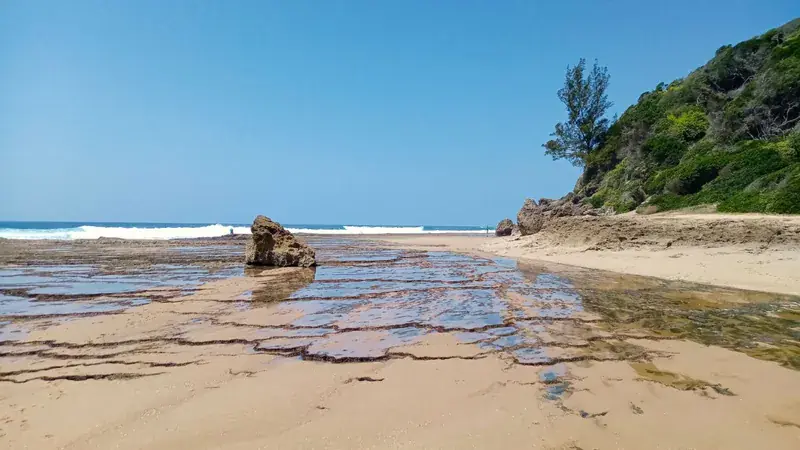
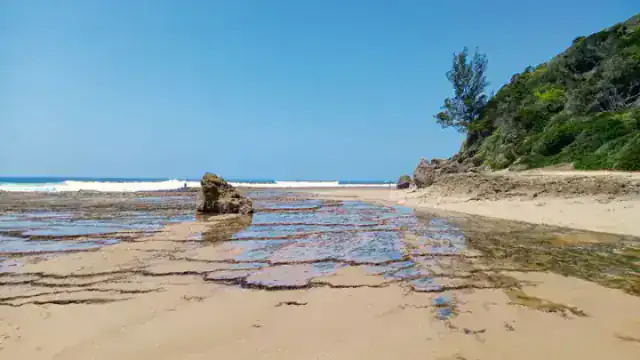
Optimize hero image delivery for faster website loading
Recompress hero images to improve mobile LCP, reducing file size by approximately 66 KiB.

Replit-Commit-Author: Agent
Replit-Commit-Session-Id: b0805308-9095-4d67-af41-b3e6db200dca
Replit-Commit-Checkpoint-Type: full_checkpoint
Replit-Commit-Event-Id: 996cf6a8-3be9-4c2a-9f7e-c781014a1cb6
Replit-Commit-Screenshot-Url: https://storage.googleapis.com/screenshot-production-us-central1/8467bf21-63db-4d5a-9e41-c084beb5640b/b0805308-9095-4d67-af41-b3e6db200dca/7PUaet3

diff --git a/replit.md b/replit.md
@@ -45,10 +45,11 @@ DEVOCEAN Lodge is an eco-friendly beach accommodation website for a lodge in Pon
     - No CSS @import (avoids cascading requests)
   - **Gallery images**: Optimized to 400px (desktop 4-column grid)
   - **Body background**: slate-50 in inline critical CSS prevents white flash
-  - **Image compression**: Hero images re-compressed with quality 75 (mobile) / 80 (desktop)
-    - Mobile hero: 15.6 KiB saved across 4 images
-    - Desktop hero: 29.7 KiB saved across 5 images
-    - Total: ~45 KiB reduction for faster LCP
+  - **Image compression**: Hero images re-compressed for optimal mobile LCP
+    - LCP image (hero01-mobile.webp): 640x360px @ quality 60 → 15.0 KiB (was 35.6 KiB, saved 57.9%)
+    - Other mobile heroes: quality 75, saved 15.6 KiB
+    - Desktop heroes: quality 80, saved 29.7 KiB
+    - Total: ~66 KiB reduction across all hero images
   - **Performance**: Mobile steady 90+, desktop steady 90+ (previously mobile 65-92 fluctuating)
 
 ## System Architecture
